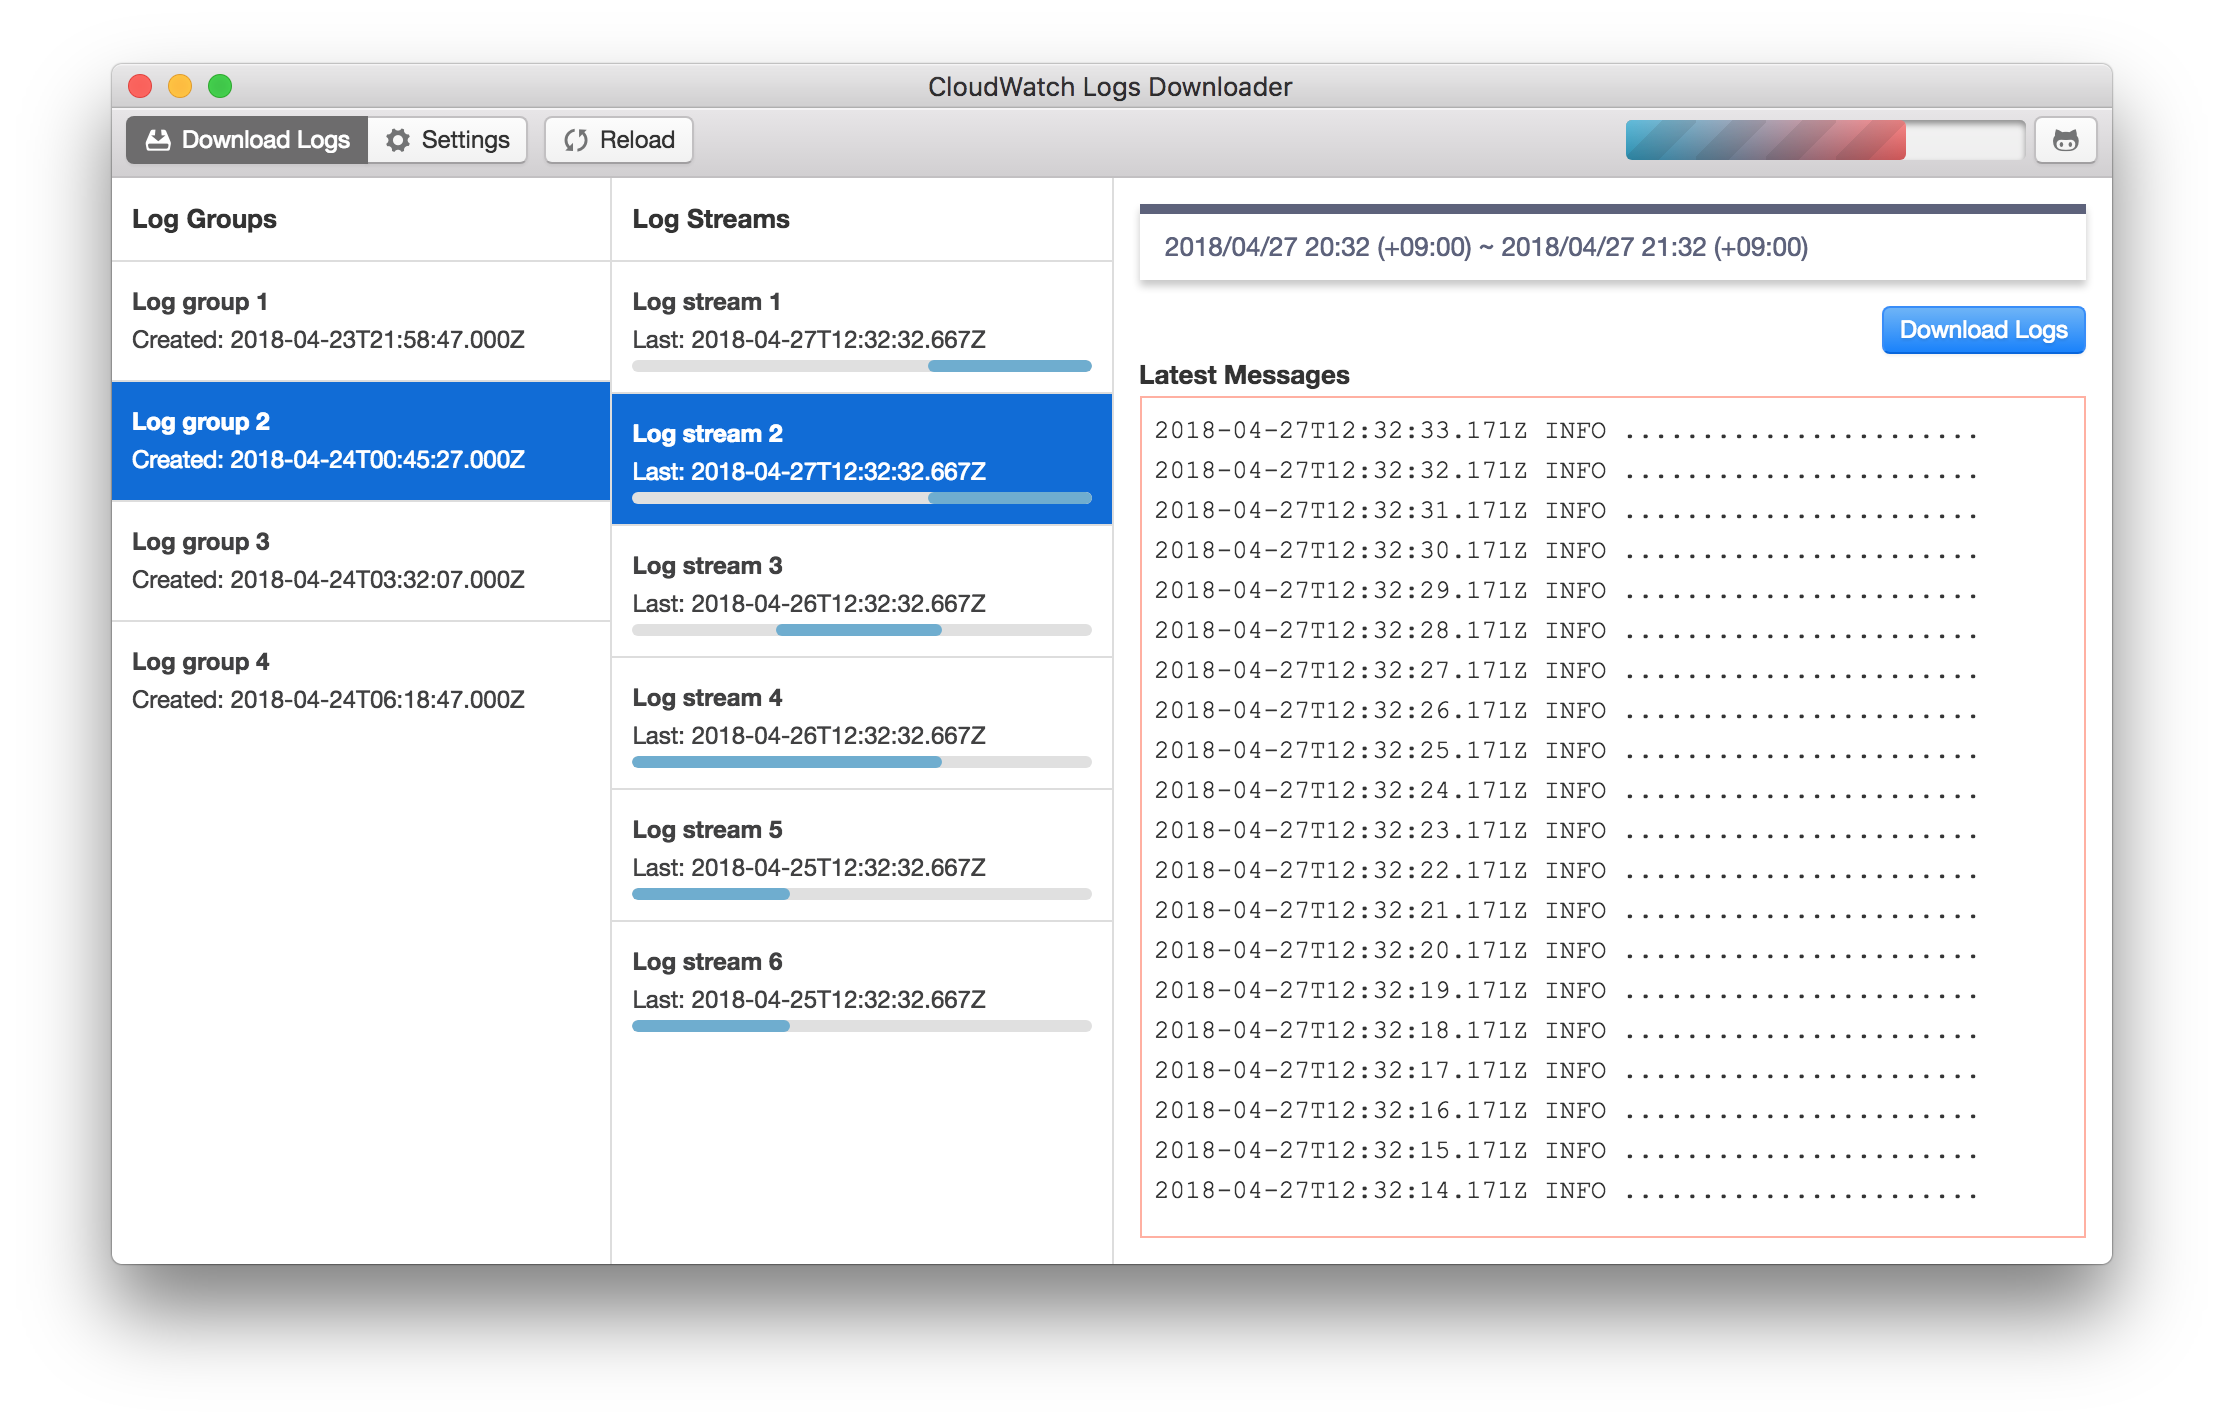
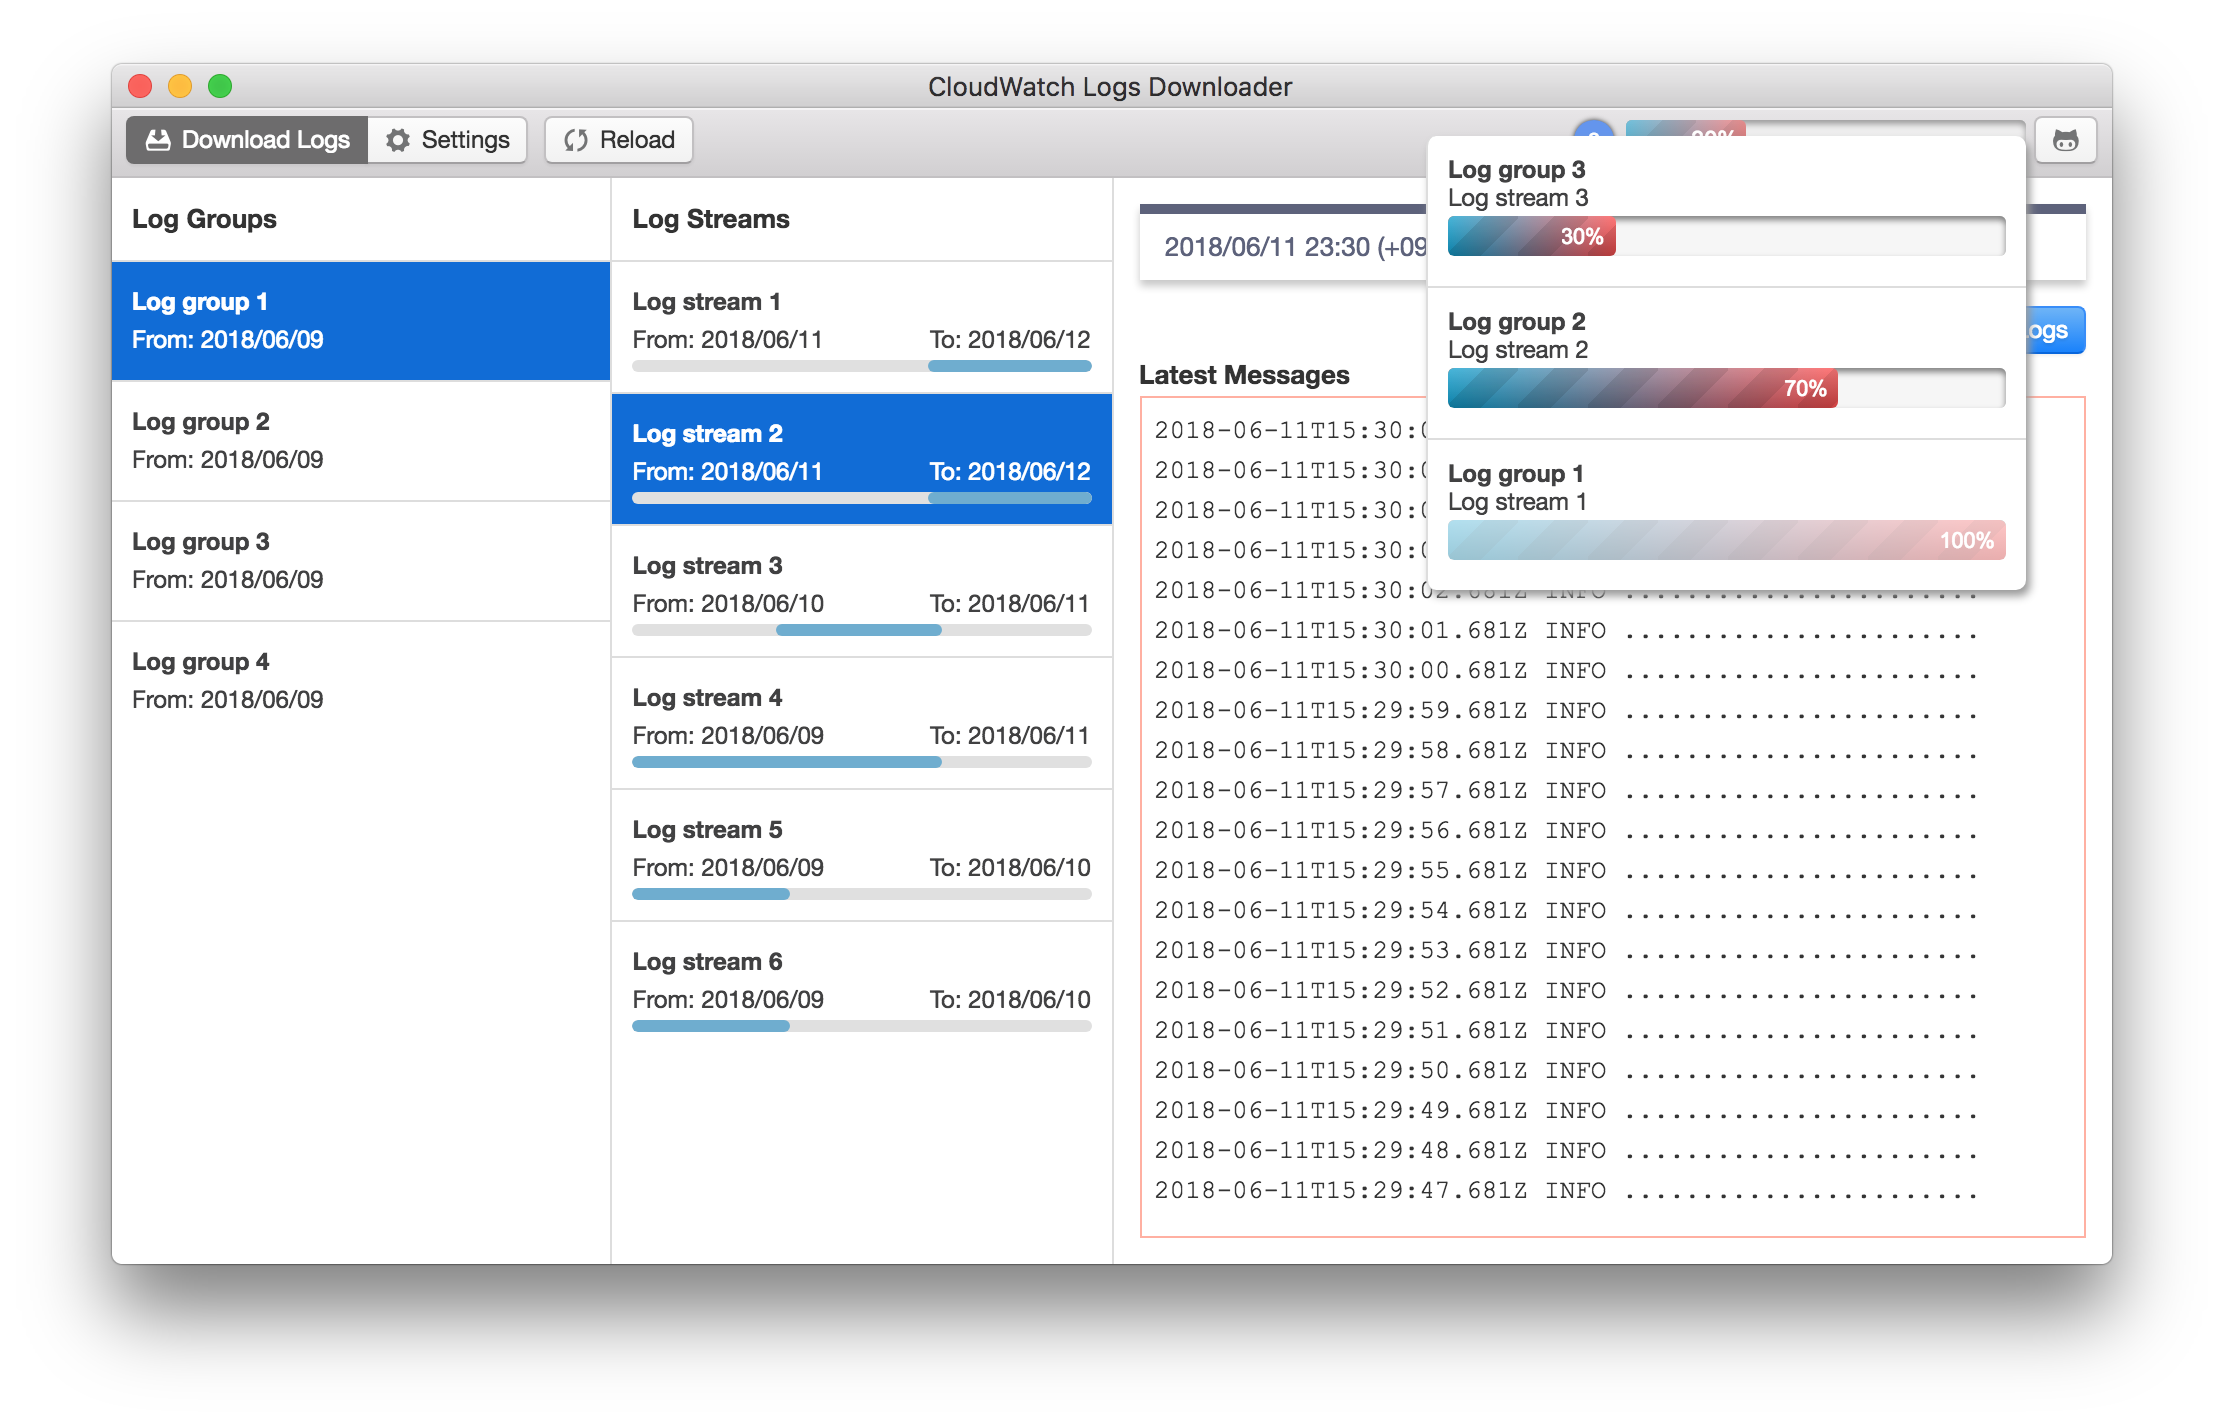
Update demo image and stub codes.

diff --git a/src/renderer/side-effect-functions/index.ts b/src/renderer/side-effect-functions/index.ts
@@ -105,15 +105,18 @@ export function getCloudWatchLogGroups(
 ): void {
 
   //////////// stub ////////////
+  let now = new Date().getTime();
+  let prev = (t: number, days: number) => t - days * 24 * 60 * 60 * 1000;
+
   callbackStart(new Date());
 
   callbackEnd(
     new Date(),
     [
-      { arn: 'arn1', logGroupName: 'Log group 1', creationTime: 1524520727000, storedBytes: 52428800 },
-      { arn: 'arn2', logGroupName: 'Log group 2', creationTime: 1524530727000, storedBytes: 52428800 },
-      { arn: 'arn3', logGroupName: 'Log group 3', creationTime: 1524540727000, storedBytes: 52428800 },
-      { arn: 'arn4', logGroupName: 'Log group 4', creationTime: 1524550727000, storedBytes: 52428800 },
+      { arn: 'arn1', logGroupName: 'Log group 1', creationTime: prev(now, 3), storedBytes: 52428800 },
+      { arn: 'arn2', logGroupName: 'Log group 2', creationTime: prev(now, 3), storedBytes: 52428800 },
+      { arn: 'arn3', logGroupName: 'Log group 3', creationTime: prev(now, 3), storedBytes: 52428800 },
+      { arn: 'arn4', logGroupName: 'Log group 4', creationTime: prev(now, 3), storedBytes: 52428800 },
     ],
   );
   //////////// stub ////////////

diff --git a/src/renderer/types/index.ts b/src/renderer/types/index.ts
@@ -68,8 +68,13 @@ export const initialState: StoreState = {
     text: '',
   },
   logEvents: {
-    runningJobs: [ { id: 'xxxx', progress: 0.7 } ],
-    finishedJobs: [],
+    runningJobs: [
+      { id: 'xxxx', logGroupName: 'Log group 3', logStreamName: 'Log stream 3', startTime: 0, progress: 0.3 },
+      { id: 'xxxx', logGroupName: 'Log group 2', logStreamName: 'Log stream 2', startTime: 0, progress: 0.7 },
+    ],
+    finishedJobs: [
+      { id: 'xxxx', logGroupName: 'Log group 1', logStreamName: 'Log stream 1', startTime: 0, progress: 1.0 },
+    ],
     errorJobs: [],
   },
   settings: {
